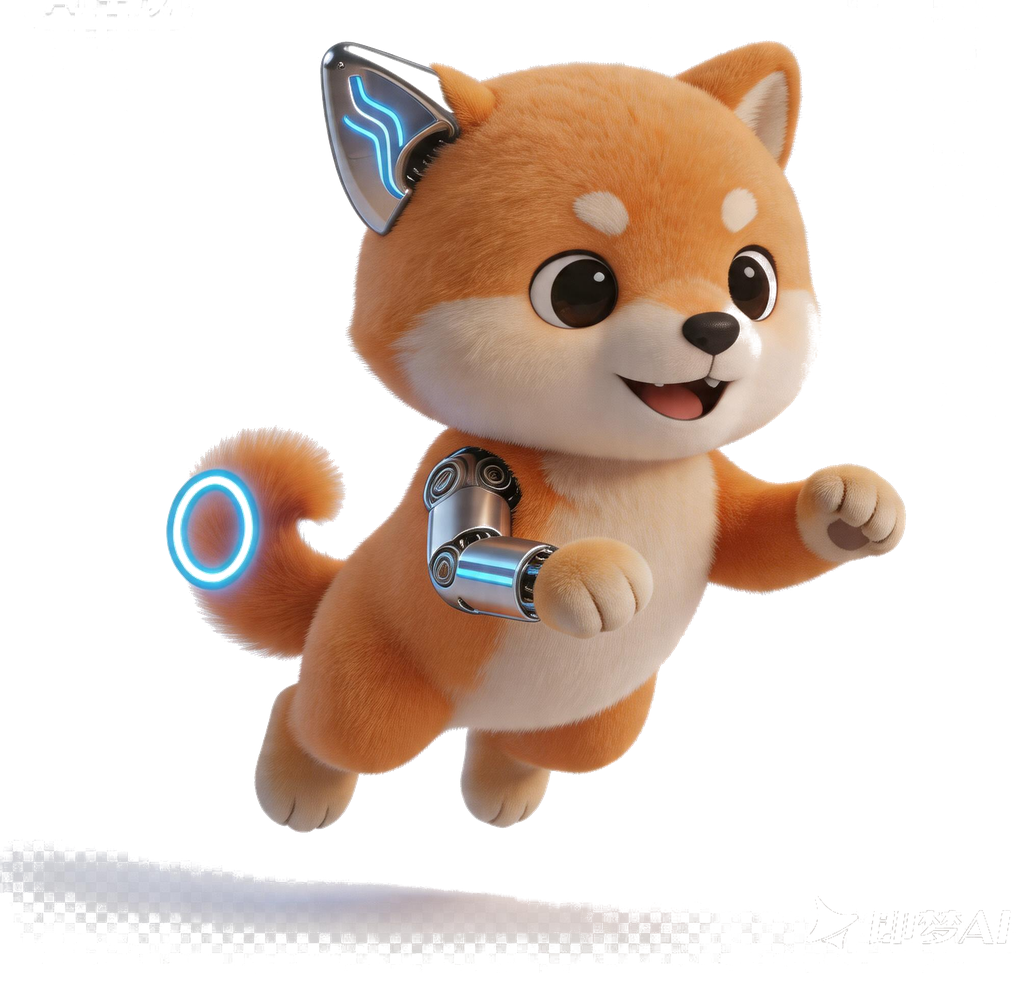
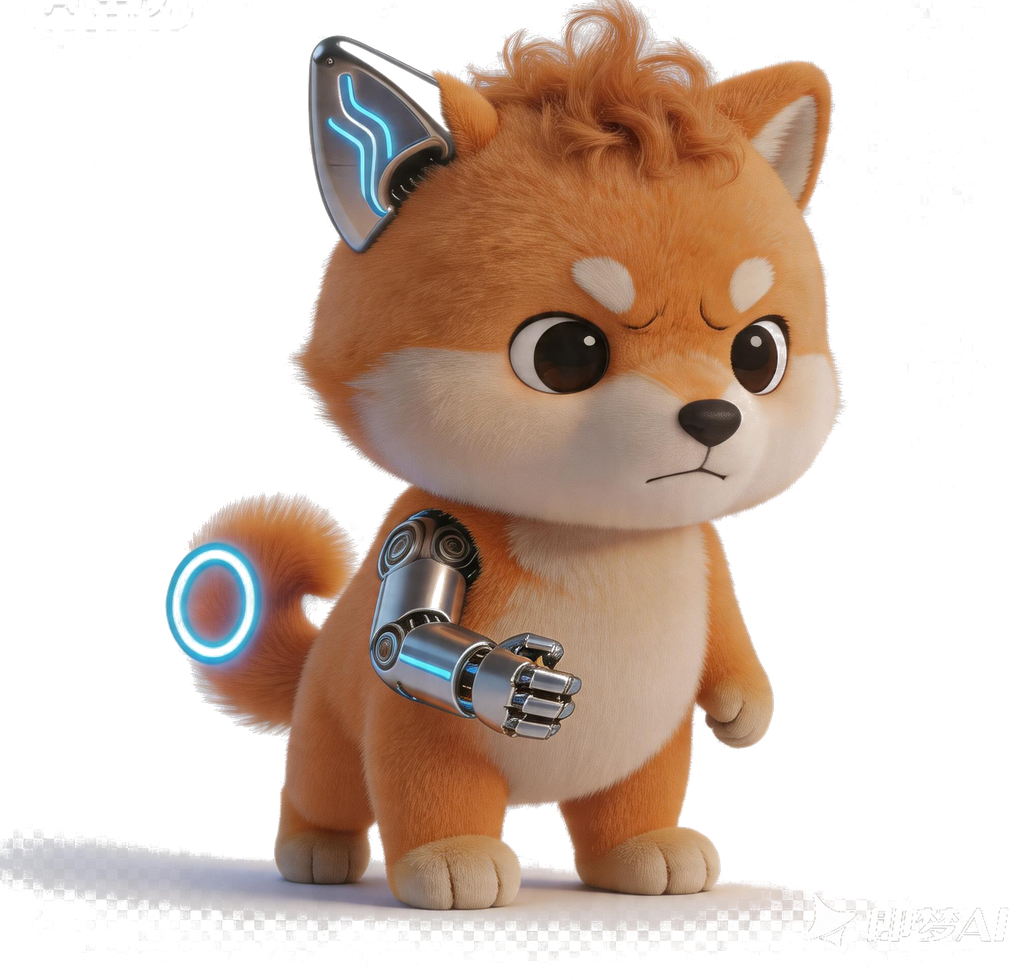
fix: 紫柴犬补全26张PNG(Stage1+2=9/9, Stage3=8/8) + normal fallback
紫柴犬图片补全:
- Stage1: 7→9张 (新增excited+normal) ✅
- Stage2: 9/9完整 ✅
- Stage3: 4→8张 (新增angry+eating+wave+excited)
- 缺: Stage3 normal.png (fallback到happy)

处理: 全部去底色裁logo缩放1024px透明RGBA

diff --git a/src/components/Pet.jsx b/src/components/Pet.jsx
@@ -140,7 +140,7 @@ function getEmotionSprite(emotionKey, type, level = 1) {
     else if (level >= 10) stageDir = 'stage2'   // 赛博柴犬
     // 1-9: stage1（机械幼崽）
     const sprites = makeShibaStage(stageDir)
-    return sprites[emotionKey] || sprites.normal
+    return sprites[emotionKey] || sprites.normal || sprites.happy
   }
   const sprites = getPetSprites(type)
   return sprites.emotionSprites[emotionKey] || null

diff --git a/.workbuddy/memory/2026-04-15.md b/.workbuddy/memory/2026-04-15.md
@@ -1,5 +1,32 @@
 # 2026-04-15 工作日志
 
+## 紫电柴犬新增（commit e77cef8）
+### 🐶 紫电柴犬 (pet_shiba, N级)
+- 赛博机械风格：幼崽义体 → 装甲强化 → 终极义体
+- 3阶段PNG: Stage1=7张 / Stage2=9张完整 / Stage3=4张
+- 缺少: S1缺excited+normal, S3缺angry+eating+wave+excited+normal
+- spritePrefix='shiba', 图片在 public/pets/shiba/{stage1,stage2,stage3}/
+
+### 透明背景修复（重要！）
+**根因**: ChatGPT导出时"透明背景"被转为RGB+灰白色底(236,238,237)
+**修复**: 
+- 写了 scripts/process_pet_images.py 批量处理脚本
+  - 从四角采样检测背景色
+  - RGB→RGBA转换（距离阈值法，带平滑过渡）
+  - 裁剪顶部AI logo区域(~120px)
+  - 裁切透明边框 + 缩放到1024px
+- **小橘猫**: 从精灵图(1222×1287)切分3×3网格 → 去底色 → 27张透明RGBA PNG
+- **紫柴犬**: 原图2048×2048去底色裁logo → 20张透明RGBA PNG
+
+### 抽卡权重更新（3只宠物）
+| 宠物 | early (Lv1-9) | mid (Lv10-19) | late (Lv20+) |
+|------|-------------|--------------|-------------|
+| 🐱 小橘猫 | **55%** | 40% | 25% |
+| 🐶 紫柴犬 | **30%** | 30% | 25% |
+| 🐉 无牙仔 | 15% | 30% | **50%** |
+
+---
+
 ## 点击互动修复（commit 9150f66）
 
 ### 问题1: Dock/互动页点击宠物不切换表情
